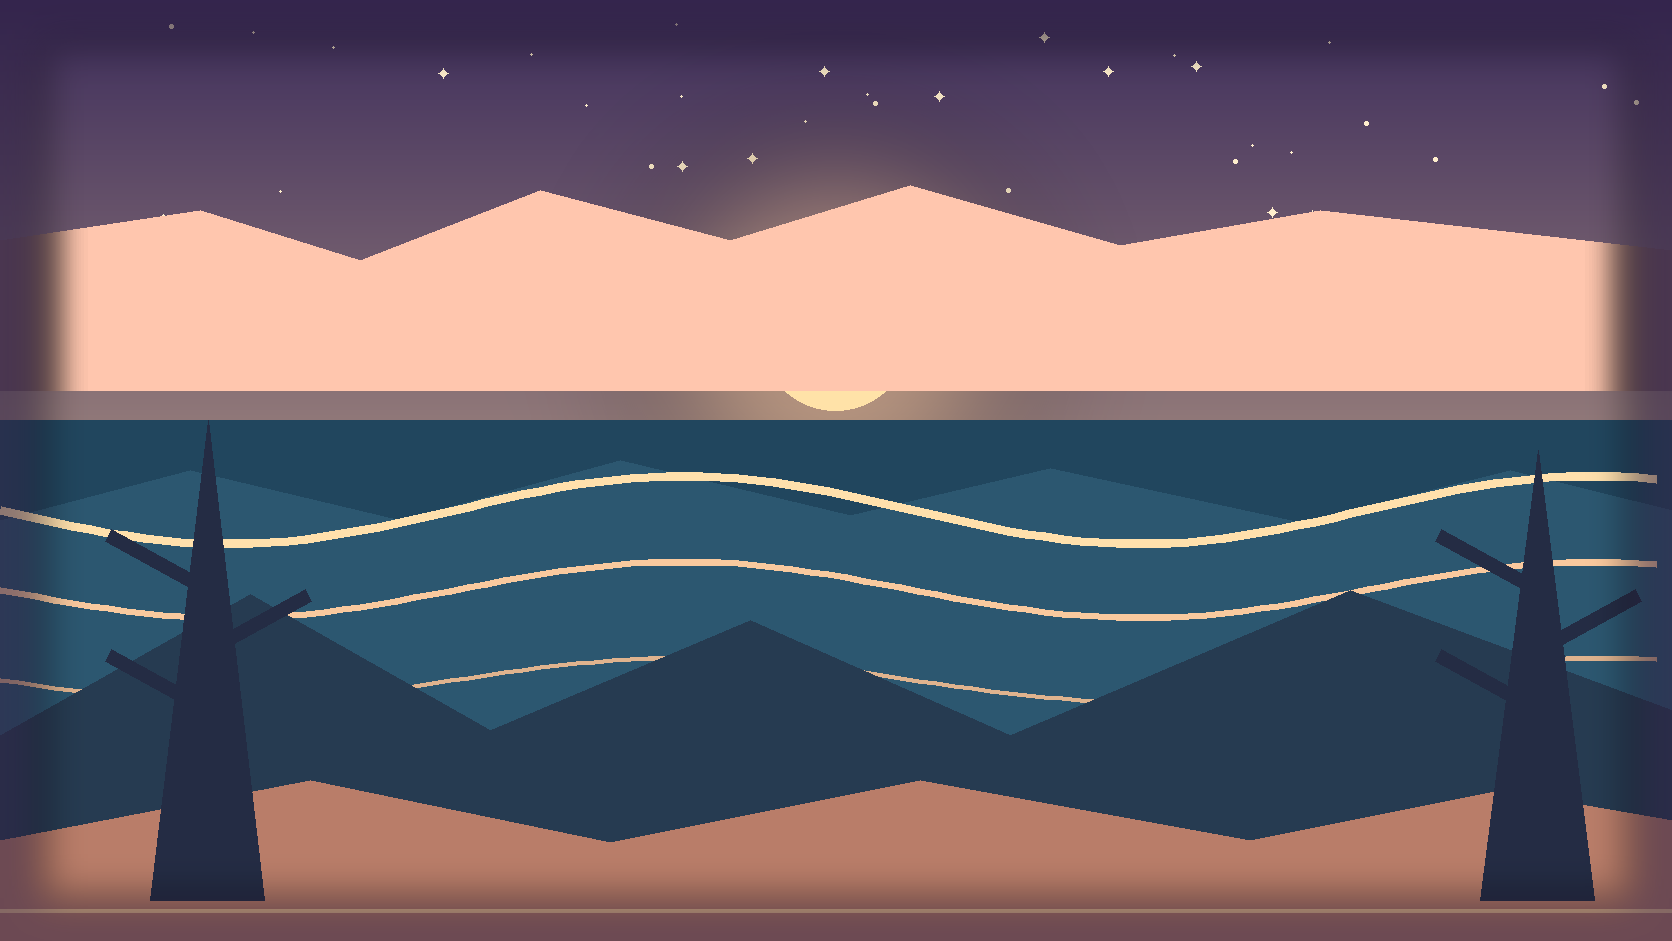
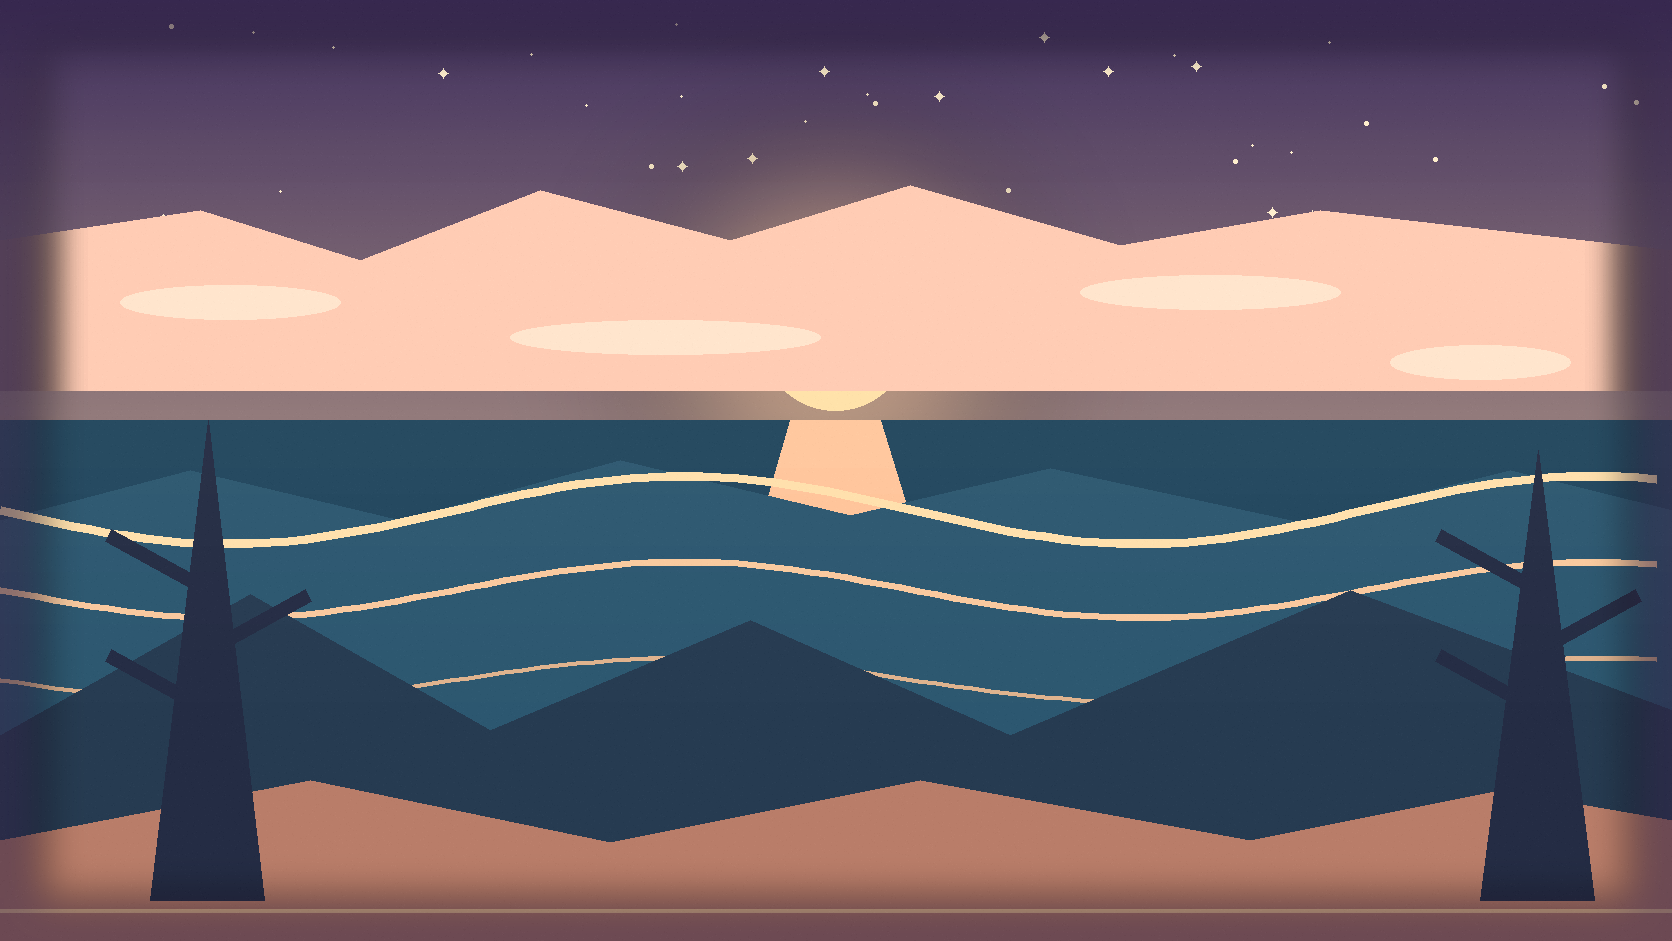
Refine authored world plates for 1.0.3

diff --git a/tools/rasterize_new_worlds.py b/tools/rasterize_new_worlds.py
@@ -36,27 +36,71 @@ def vignette(im, edge=(4,7,20,145)):
     v=Image.new("RGBA",im.size,(0,0,0,0)); d=ImageDraw.Draw(v)
     d.rectangle((0,0,W,H),outline=edge,width=44); im.alpha_composite(v.filter(ImageFilter.GaussianBlur(18)))
 
+def finish(im, seed, grain=3):
+    """Give the illustrated plates a restrained, print-like finish.
+
+    The source scenes stay vector-clean, while this pass adds depth at the
+    scale people actually see them: a soft atmospheric veil, low-frequency
+    colour variation and barely visible grain in the darks.  It is seeded so
+    the installer and source archive remain reproducible.
+    """
+    rng = random.Random(seed)
+    # Low-frequency haze breaks the hard horizon without washing out the
+    # centre where opaque UI cards are placed.
+    veil = Image.new("RGBA", im.size, (0, 0, 0, 0)); vd = ImageDraw.Draw(veil, "RGBA")
+    for y in range(0, H, 26):
+        a = int(4 + 5 * math.sin(y / 180))
+        vd.rectangle((0, y, W, y + 26), fill=(255, 236, 216, max(0, a)))
+    im.alpha_composite(veil.filter(ImageFilter.GaussianBlur(14)))
+    # Very light film grain makes broad colour fields feel authored rather
+    # than computer-flat, while keeping text contrast untouched.
+    if grain:
+        px = im.load();
+        for y in range(H):
+            for x in range(W):
+                if rng.random() < 0.08:
+                    r, g, b, a = px[x, y]
+                    delta = rng.choice((-grain, -1, 1, grain))
+                    px[x, y] = (max(0, min(255, r + delta)), max(0, min(255, g + delta)), max(0, min(255, b + delta)), a)
+    return im
+
 def castle():
     im=gradient("#11152f","#d18aa5"); d=ImageDraw.Draw(im,"RGBA"); stars(d,4,n=150)
     haze(im,(1280,132),150,(255,220,170),80); d=ImageDraw.Draw(im,"RGBA"); d.ellipse((1235,85,1325,175),fill="#fff1ce")
     d.polygon([(0,575),(170,463),(332,553),(500,446),(694,558),(875,464),(1056,560),(1264,442),(1672,560),(1672,941),(0,941)],fill="#332448")
     d.polygon([(0,667),(270,533),(510,658),(744,536),(1010,660),(1280,525),(1672,646),(1672,941),(0,941)],fill="#10162e")
     d.polygon([(760,941),(855,600),(950,941)],fill="#29304c"); d.line((840,650,860,650),fill="#c6a6bb",width=5)
+    # A broad lavender bloom behind the keep adds the moonlit, storybook
+    # depth that a flat geometric plate misses at card-sized scale.
+    haze(im, (836, 430), 430, (224, 165, 190), 22)
     stone=Image.new("RGBA",im.size); sd=ImageDraw.Draw(stone,"RGBA")
     for x,h,w in ((505,310,210),(835,438,250),(1160,310,210)):
         sd.rounded_rectangle((x-w//2,586-h,x+w//2,586),radius=8,fill="#e9c7cf",outline="#886397",width=8)
+        for yy in range(586-h+20, 586, 32):
+            sd.line((x-w//2+14, yy, x+w//2-14, yy), fill=(179, 126, 157, 55), width=2)
         sd.polygon([(x-w//2-24,586-h),(x,586-h-142),(x+w//2+24,586-h)],fill="#744782",outline="#996e9c",width=6)
         sd.rectangle((x-40,586-h+42,x+40,586-h+142),fill="#ffe8b0",outline="#b87893",width=5)
         sd.line((x,586-h+45,x,586-h+137),fill="#c58a9b",width=3); sd.line((x-38,586-h+92,x+38,586-h+92),fill="#c58a9b",width=3)
     sd.rectangle((640,434,1032,586),fill="#e5c1cb",outline="#886397",width=8)
+    for yy in range(456, 580, 26): sd.line((654, yy, 1018, yy), fill=(182, 128, 157, 48), width=2)
     sd.polygon([(610,434),(836,215),(1062,434)],fill="#744782",outline="#996e9c",width=7)
     sd.rectangle((794,482,878,586),fill="#4b355b"); sd.ellipse((815,498,857,540),fill="#ca789a",outline="#f5bdc3",width=4)
     sd.line((730,466,942,466),fill="#f7dfc9",width=4); im.alpha_composite(stone); d=ImageDraw.Draw(im,"RGBA")
+    # Tiny warm windows and flags read as hand-placed details rather than
+    # repeated UI-like symbols.
     for x in (492,1162):
         d.line((x,230,x,350),fill="#c79b8f",width=5); d.polygon([(x,348),(x+48,365),(x,385)],fill="#eeb0ba")
-    for x in range(250,1450,90): d.ellipse((x,735,x+10,745),fill="#e7b9c9")
+    for x in range(250,1450,90):
+        d.ellipse((x,735,x+10,745),fill="#e7b9c9")
+        d.ellipse((x-10,725,x+20,755),fill=(238, 167, 193, 22))
+    # Rose garden silhouettes and a few foreground leaves give the grounds a
+    # painterly edge while preserving a quiet lower band for the UI.
+    for x in range(310, 1370, 72):
+        d.line((x, 808, x + (x % 3 - 1) * 10, 760), fill=(67, 61, 82, 220), width=4)
+        d.ellipse((x-15, 758, x+7, 775), fill=(108, 70, 105, 180))
+        d.ellipse((x+4, 748, x+25, 768), fill=(130, 78, 116, 150))
     d.polygon([(0,805),(210,728),(420,802),(610,747),(820,810),(1040,742),(1280,807),(1490,730),(1672,788),(1672,941),(0,941)],fill="#171c35")
-    d.line((0,792,1672,792),fill="#77719f",width=6); vignette(im,(20,16,38,150)); return im
+    d.line((0,792,1672,792),fill="#77719f",width=6); vignette(im,(20,16,38,150)); return finish(im, 104)
 
 def underworld():
     im=gradient("#0b0a16","#7f3024"); d=ImageDraw.Draw(im,"RGBA"); stars(d,9,(255,208,120,190),45,380)
@@ -67,12 +111,21 @@ def underworld():
     d.polygon([(0,710),(170,564),(360,625),(530,542),(690,652),(850,565),(1050,657),(1260,540),(1450,632),(1672,520),(1672,941),(0,941)],fill="#2a1821")
     d.polygon([(0,828),(280,710),(545,842),(820,735),(1100,828),(1380,700),(1672,800),(1672,941),(0,941)],fill="#c4472e")
     d.line((0,852,280,770,545,875,820,785,1100,856,1380,760,1672,833),fill="#ffd37c",width=18); d.line((0,878,280,803,545,902,820,812,1100,883,1380,790,1672,855),fill="#f06a39",width=8)
+    # Meandering ember fissures and sparks add heat variation to the lava,
+    # keeping the underworld from reading as a single red polygon.
+    rng = random.Random(91)
+    for _ in range(28):
+        x = rng.randrange(0, W); y = rng.randrange(825, 935)
+        d.line((x, y, x + rng.randrange(-70, 71), y + rng.randrange(8, 28)), fill=(255, 191, 94, rng.randrange(70, 170)), width=rng.choice((2,3,4)))
+    for _ in range(24):
+        x = rng.randrange(40, W-40); y = rng.randrange(590, 840); r = rng.choice((2,3,4))
+        d.ellipse((x-r, y-r, x+r, y+r), fill=(255, 160, 82, 150))
     for x,h in ((380,420),(525,520),(1147,520),(1292,420)):
         d.polygon([(x-72,760-h),(x,760-h-102),(x+74,760-h),(x+60,760)],fill="#3b242b",outline="#92503f",width=10); d.line((x,760-h+25,x+20,760-h+165),fill="#c26247",width=4)
     d.ellipse((642,302,1030,780),fill="#120f19",outline="#bd6247",width=14); d.arc((704,345,968,730),180,360,fill="#f4a65b",width=12); d.arc((730,378,942,690),180,360,fill="#ffd27a",width=5)
     for x,y in ((470,270),(1180,220),(410,490),(1260,460),(610,180),(1030,135)):
         d.ellipse((x-4,y-4,x+4,y+4),fill="#ffc56d"); d.line((x,y-12,x,y+12),fill="#ff8c4c",width=2)
-    vignette(im,(22,8,24,180)); return im
+    vignette(im,(22,8,24,180)); return finish(im, 109)
 
 def mythic():
     im=gradient("#071027","#121735"); d=ImageDraw.Draw(im,"RGBA"); stars(d,14,(222,197,255,220),140,500)
@@ -82,30 +135,49 @@ def mythic():
         dx=math.cos(math.radians(a))*315; dy=math.sin(math.radians(a))*315; d.line((c[0]-dx,c[1]-dy,c[0]+dx,c[1]+dy),fill="#8bdfe2",width=3)
     for a in range(0,360,45):
         x=c[0]+315*math.cos(math.radians(a)); y=c[1]+315*math.sin(math.radians(a)); d.ellipse((x-8,y-8,x+8,y+8),fill="#f2d88d")
+    # Fine orbit lines and constellation links make the sigil feel like a
+    # crafted celestial instrument instead of a simple target graphic.
+    for r in (165, 265):
+        d.arc((c[0]-r, c[1]-r, c[0]+r, c[1]+r), 18, 148, fill=(226, 195, 255, 120), width=2)
+        d.arc((c[0]-r, c[1]-r, c[0]+r, c[1]+r), 198, 328, fill=(226, 195, 255, 100), width=2)
+    for a1, a2 in ((12, 48), (48, 96), (142, 196), (230, 286), (286, 340)):
+        p1=(c[0]+260*math.cos(math.radians(a1)), c[1]+260*math.sin(math.radians(a1)))
+        p2=(c[0]+260*math.cos(math.radians(a2)), c[1]+260*math.sin(math.radians(a2)))
+        d.line((*p1, *p2), fill=(242, 216, 141, 110), width=2)
     d.polygon([(0,720),(280,604),(510,716),(770,595),(1000,718),(1280,580),(1672,710),(1672,941),(0,941)],fill="#101a37")
     d.polygon([(610,790),(836,420),(1060,790)],fill="#1a2c54",outline="#86dfe1",width=9); d.polygon([(720,590),(836,430),(952,590)],fill="#18233f",outline="#d9c0ff",width=8); d.polygon([(795,790),(836,515),(877,790)],fill="#112142")
     d.ellipse((800,580,872,652),fill="#92e2e2",outline="#f0d58a",width=5)
     for x in (200,250,1420,1470): d.line((x,790,x,590),fill="#6fd0d4",width=5); d.line((x-30,790,x+30,790),fill="#6fd0d4",width=5)
-    vignette(im,(3,10,34,160)); return im
+    vignette(im,(3,10,34,160)); return finish(im, 114)
 
 def cabin():
     im=gradient("#12243c","#c4a27f"); d=ImageDraw.Draw(im,"RGBA"); haze(im,(1350,132),130,(255,225,175),80); d=ImageDraw.Draw(im,"RGBA"); d.ellipse((1310,92,1395,177),fill="#f9e9c0"); stars(d,21,(215,238,204,190),95,350)
     d.polygon([(0,530),(166,242),(280,425),(430,185),(570,450),(725,275),(872,463),(1030,220),(1180,461),(1370,285),(1672,520),(1672,710),(0,710)],fill="#18312f")
+    # Snow catches the moon on the far ridge; irregular strokes soften the
+    # otherwise triangular mountain silhouettes.
+    for pts in (((430,185),(386,270),(430,248),(472,276)), ((1030,220),(986,306),(1030,278),(1070,314)), ((1370,285),(1332,350),(1370,329),(1410,354))):
+        d.line(pts, fill=(177, 214, 199, 150), width=7)
     d.polygon([(0,600),(200,350),(370,535),(560,315),(720,550),(920,342),(1080,560),(1290,360),(1450,550),(1672,390),(1672,710),(0,710)],fill="#214342")
     for x in (125,300,1450,1590): d.polygon([(x,690),(x+68,350),(x+140,690)],fill="#12302e")
     d.rectangle((0,660,W,H),fill="#0e2929"); d.line((0,773,1672,773),fill="#a1d2bc",width=6)
     for y,wid,a in ((820,500,95),(850,360,80),(885,260,70)): d.line((835-wid,y,835+wid,y),fill=(154,206,188,a),width=4)
     d.polygon([(430,585),(835,300),(1240,585)],fill="#4a3833",outline="#60443a",width=12); d.rectangle((500,580,1170,846),fill="#76513f",outline="#543b34",width=12)
     for y in range(625,825,45): d.line((510,y,1160,y),fill="#9a6b4e",width=4)
+    for x in range(530, 1150, 58): d.line((x, 604, x + 10, 830), fill=(74, 49, 44, 35), width=3)
     d.rectangle((668,636,778,754),fill="#ffd88a",outline="#e6af68",width=6); d.rectangle((872,636,982,754),fill="#ffd88a",outline="#e6af68",width=6); d.line((723,640,723,750),fill="#d79057",width=4); d.line((668,695,778,695),fill="#d79057",width=4); d.line((927,640,927,750),fill="#d79057",width=4); d.line((872,695,982,695),fill="#d79057",width=4)
     d.rectangle((800,738,900,846),fill="#342a2c"); d.rectangle((1020,382,1090,560),fill="#343235",outline="#523d38",width=8)
     smoke=Image.new("RGBA",im.size); sd=ImageDraw.Draw(smoke,"RGBA"); sd.ellipse((1030,310,1100,380),fill=(224,230,211,45)); sd.ellipse((1000,240,1090,330),fill=(224,230,211,30)); im.alpha_composite(smoke.filter(ImageFilter.GaussianBlur(16)))
     d=ImageDraw.Draw(im,"RGBA"); d.polygon([(330,846),(520,820),(720,846),(940,820),(1140,846),(1350,818),(1672,848),(1672,941),(0,941),(0,868)],fill="#0a2021")
-    vignette(im,(10,28,29,155)); return im
+    vignette(im,(10,28,29,155)); return finish(im, 121)
 
 def sunset():
     im=gradient("#3c2c5b","#f8d69e"); d=ImageDraw.Draw(im,"RGBA"); stars(d,33,(255,238,205,160),35,240); haze(im,(835,334),190,(255,205,143),100); d=ImageDraw.Draw(im,"RGBA"); d.ellipse((760,260,910,410),fill="#ffe2a8")
     d.polygon([(0,240),(200,210),(360,260),(540,190),(730,240),(910,185),(1120,245),(1320,210),(1672,250),(1672,390),(0,390)],fill=(255,198,174,48)); d.rectangle((0,420,W,H),fill="#21465e")
+    # Thin cloud bands and a warm reflected path break up the broad sky and
+    # give the beach a believable light source.
+    for x, y, ww in ((120, 285, 220), (510, 320, 310), (1080, 275, 260), (1390, 345, 180)):
+        d.ellipse((x, y, x+ww, y+34), fill=(255, 226, 201, 22))
+    d.polygon([(790, 420), (880, 420), (1040, 940), (640, 940)], fill=(255, 188, 141, 22))
     d.polygon([(0,520),(190,470),(400,520),(620,460),(850,515),(1050,468),(1300,522),(1510,470),(1672,510),(1672,941),(0,941)],fill="#2c5770")
     for y,amp,col,w in ((510,34,"#ffe0ac",9),(590,28,"#f9c99e",7),(680,22,"#dfb38e",5),(770,15,"#a9b7ad",4)):
         pts=[(x,y+amp*math.sin(x/145)) for x in range(0,W+1,18)]; d.line(pts,fill=col,width=w)
@@ -113,7 +185,7 @@ def sunset():
     for x,h in ((150,420),(1480,450)):
         d.polygon([(x,900),(x+58,h),(x+114,900)],fill="#242c44")
         for y,side in ((590,-1),(650,1),(710,-1)): d.line((x+58,y,x+58+side*100,y-55),fill="#242c44",width=15)
-    d.line((0,910,1672,910),fill="#f0c28f",width=4); vignette(im,(45,31,65,140)); return im
+    d.line((0,910,1672,910),fill="#f0c28f",width=4); vignette(im,(45,31,65,140)); return finish(im, 133)
 
 for name, fn in (("castle",castle),("underworld",underworld),("mythic",mythic),("cabin",cabin),("sunset",sunset)):
     fn().resize((1672,941), Image.Resampling.LANCZOS).convert("RGB").save(OUT/f"{name}-1.0.3.png", optimize=True)

diff --git a/AUDIT-1.0.3.md b/AUDIT-1.0.3.md
@@ -4,10 +4,10 @@ Status: implemented and packaged for owner review, with the automated verificati
 
 ## Current candidate delta
 
[2 lines of base64/hex data omitted]
 Card Studio also has guarded **Save & next card** and **Save & next slide/page** actions for slide-set authoring. The first saves the current local draft and carries only the source page, destination deck, tags, card style, selected note type, field mapping, and occlusion display preference into a clean draft. The second additionally advances to the next page of a multi-page source. Neither action copies the previous question, masks, media, or source quotation.
 
[2 lines of base64/hex data omitted]
 
 ## Source and checkpoints
 
